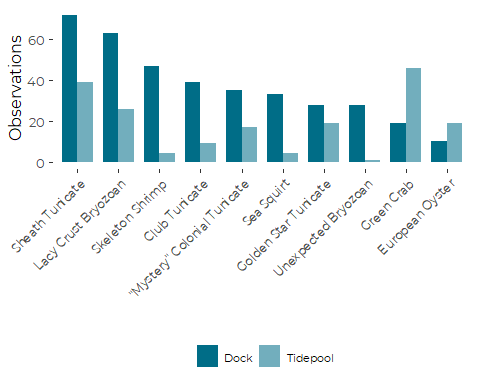
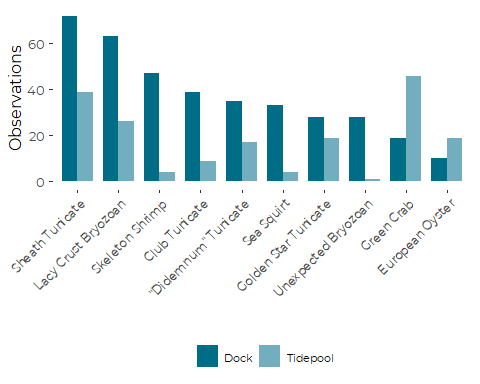
Modify common name of Didemnum on graphic

diff --git a/Graphics/MIMIC_Graphics.md b/Graphics/MIMIC_Graphics.md
@@ -123,6 +123,7 @@ abundance_data <- read_csv(file.path(sibling, fn),
          Month = factor(Month, levels = month.abb),
          Abundance = ordered(Abundance, levels = c('Absent', 'Rare', 'Few', 
                                                    'Common', 'Abundant')))
+#> Warning: The following named parsers don't match the column names: State
 
 fn <- 'Presence_Data.csv'
 presence_data <- read_csv(file.path(sibling, fn),
@@ -143,6 +144,7 @@ presence_data <- read_csv(file.path(sibling, fn),
                            )) %>%
   mutate(Type  = factor(Type, levels = c('Dock', 'Tidepool')),
          Month = factor(Month, levels = month.abb))
+#> Warning: The following named parsers don't match the column names: State
 ```
 
 # Convert to Factors for Display Order
@@ -624,43 +626,45 @@ common <- recent_data %>%
   slice_head(n = 20) %>%
   select(-Total) %>%
   
-  # And convert the common names to a factor, ordered by frequency on Docks.
-  mutate(Common = factor(Common),
+  # And convert the common names to a factor, ordered by frequency on Docks
+  mutate(Common = if_else(Species == 'Didemnum vexillum', 
+                          '"Didemnum" Tunicate',
+                          Common),
+         Common = factor(Common),
          Common = fct_reorder(Common, -Dock))%>%
   select(-Dock)
 common
 #> # A tibble: 20 x 4
-#>    Species                Common                          Type     Observations
-#>    <chr>                  <fct>                           <fct>           <int>
-#>  1 Botrylloides violaceus "Sheath Tunicate"               Dock               72
-#>  2 Botrylloides violaceus "Sheath Tunicate"               Tidepool           39
-#>  3 Membranipora sp.       "Lacy Crust Bryozoan"           Dock               63
-#>  4 Membranipora sp.       "Lacy Crust Bryozoan"           Tidepool           26
-#>  5 Carcinus maenas        "Green Crab"                    Dock               19
-#>  6 Carcinus maenas        "Green Crab"                    Tidepool           46
-#>  7 Didemnum vexillum      "\"Mystery\" Colonial Tunicate" Dock               35
-#>  8 Didemnum vexillum      "\"Mystery\" Colonial Tunicate" Tidepool           17
-#>  9 Caprella mutica        "Skeleton Shrimp"               Dock               47
-#> 10 Caprella mutica        "Skeleton Shrimp"               Tidepool            4
-#> 11 Styela clava           "Club Tunicate"                 Dock               39
-#> 12 Styela clava           "Club Tunicate"                 Tidepool            9
-#> 13 Botryllus schlosseri   "Golden Star Tunicate"          Dock               28
-#> 14 Botryllus schlosseri   "Golden Star Tunicate"          Tidepool           19
-#> 15 Ascidiella aspersa     "Sea Squirt"                    Dock               33
-#> 16 Ascidiella aspersa     "Sea Squirt"                    Tidepool            4
-#> 17 Ostrea edulis          "European Oyster"               Dock               10
-#> 18 Ostrea edulis          "European Oyster"               Tidepool           19
-#> 19 Tricellaria inopinata  "Unexpected Bryozoan"           Dock               28
-#> 20 Tricellaria inopinata  "Unexpected Bryozoan"           Tidepool            1
+#>    Species                Common                  Type     Observations
+#>    <chr>                  <fct>                   <fct>           <int>
+#>  1 Botrylloides violaceus "Sheath Tunicate"       Dock               72
+#>  2 Botrylloides violaceus "Sheath Tunicate"       Tidepool           39
+#>  3 Membranipora sp.       "Lacy Crust Bryozoan"   Dock               63
+#>  4 Membranipora sp.       "Lacy Crust Bryozoan"   Tidepool           26
+#>  5 Carcinus maenas        "Green Crab"            Dock               19
+#>  6 Carcinus maenas        "Green Crab"            Tidepool           46
+#>  7 Didemnum vexillum      "\"Didemnum\" Tunicate" Dock               35
+#>  8 Didemnum vexillum      "\"Didemnum\" Tunicate" Tidepool           17
+#>  9 Caprella mutica        "Skeleton Shrimp"       Dock               47
+#> 10 Caprella mutica        "Skeleton Shrimp"       Tidepool            4
+#> 11 Styela clava           "Club Tunicate"         Dock               39
+#> 12 Styela clava           "Club Tunicate"         Tidepool            9
+#> 13 Botryllus schlosseri   "Golden Star Tunicate"  Dock               28
+#> 14 Botryllus schlosseri   "Golden Star Tunicate"  Tidepool           19
+#> 15 Ascidiella aspersa     "Sea Squirt"            Dock               33
+#> 16 Ascidiella aspersa     "Sea Squirt"            Tidepool            4
+#> 17 Ostrea edulis          "European Oyster"       Dock               10
+#> 18 Ostrea edulis          "European Oyster"       Tidepool           19
+#> 19 Tricellaria inopinata  "Unexpected Bryozoan"   Dock               28
+#> 20 Tricellaria inopinata  "Unexpected Bryozoan"   Tidepool            1
 ```
 
 ``` r
 levels(common$Common)
-#>  [1] "Sheath Tunicate"               "Lacy Crust Bryozoan"          
-#>  [3] "Skeleton Shrimp"               "Club Tunicate"                
-#>  [5] "\"Mystery\" Colonial Tunicate" "Sea Squirt"                   
-#>  [7] "Golden Star Tunicate"          "Unexpected Bryozoan"          
-#>  [9] "Green Crab"                    "European Oyster"
+#>  [1] "Sheath Tunicate"       "Lacy Crust Bryozoan"   "Skeleton Shrimp"      
+#>  [4] "Club Tunicate"         "\"Didemnum\" Tunicate" "Sea Squirt"           
+#>  [7] "Golden Star Tunicate"  "Unexpected Bryozoan"   "Green Crab"           
+#> [10] "European Oyster"
 ```
 
 ``` r
